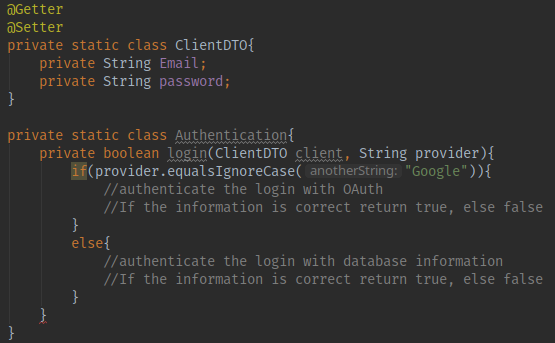
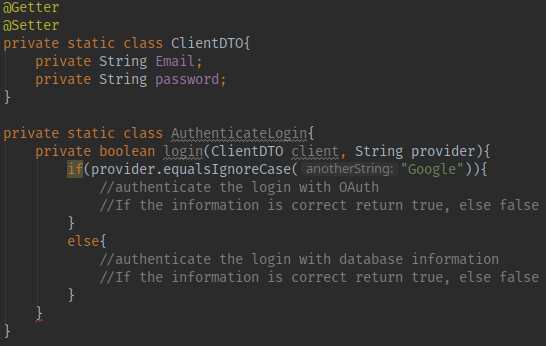
OCP

diff --git a/designPatterns/project/src/main/java/com/designPrinciples/O_OpenClosedPrinciple/O_OpenClosedPrincipleSolution.java b/designPatterns/project/src/main/java/com/designPrinciples/O_OpenClosedPrinciple/O_OpenClosedPrincipleSolution.java
@@ -1,4 +1,52 @@
 package com.designPrinciples.O_OpenClosedPrinciple;
 
+import lombok.AllArgsConstructor;
+import lombok.Getter;
+import lombok.Setter;
+
 public class O_OpenClosedPrincipleSolution {
+
+    @Getter
+    @Setter
+    private static class ClientDTO{
+        private String Email;
+        private String password;
+    }
+
+    @AllArgsConstructor
+    private static class AuthenticateLogin {
+        private Authentication authentication;
+
+        private boolean login(ClientDTO client){
+            return authentication.login(client);
+        }
+    }
+
+    private interface Authentication {
+        boolean login(ClientDTO client);
+    }
+
+    private static class AuthenticationGoogle implements Authentication {
+        @Override
+        public boolean login(ClientDTO client) {
+            //Authenticate the login using Google's Api
+            //If the information is correct return true, else false.
+        }
+    }
+
+    private static class AuthenticationFacebook implements Authentication {
+        @Override
+        public boolean login(ClientDTO client) {
+            //Authenticate the login using Facebook's Api
+            //If the information is correct return true, else false.
+        }
+    }
+
+    private static class AuthenticationDatabase implements Authentication {
+        @Override
+        public boolean login(ClientDTO client) {
+            //authenticate the login with database information
+            //If the information is correct return true, else false
+        }
+    }
 }

diff --git a/designPatterns/project/src/main/java/com/designPrinciples/O_OpenClosedPrinciple/O_OpenClosedPrincipleProblem.java b/designPatterns/project/src/main/java/com/designPrinciples/O_OpenClosedPrinciple/O_OpenClosedPrincipleProblem.java
@@ -12,7 +12,7 @@ public class O_OpenClosedPrincipleProblem {
         private String password;
     }
 
-    private static class Authentication{
+    private static class AuthenticateLogin{
         private boolean login(ClientDTO client, String provider){
             if(provider.equalsIgnoreCase("Google")){
                 //authenticate the login with OAuth
